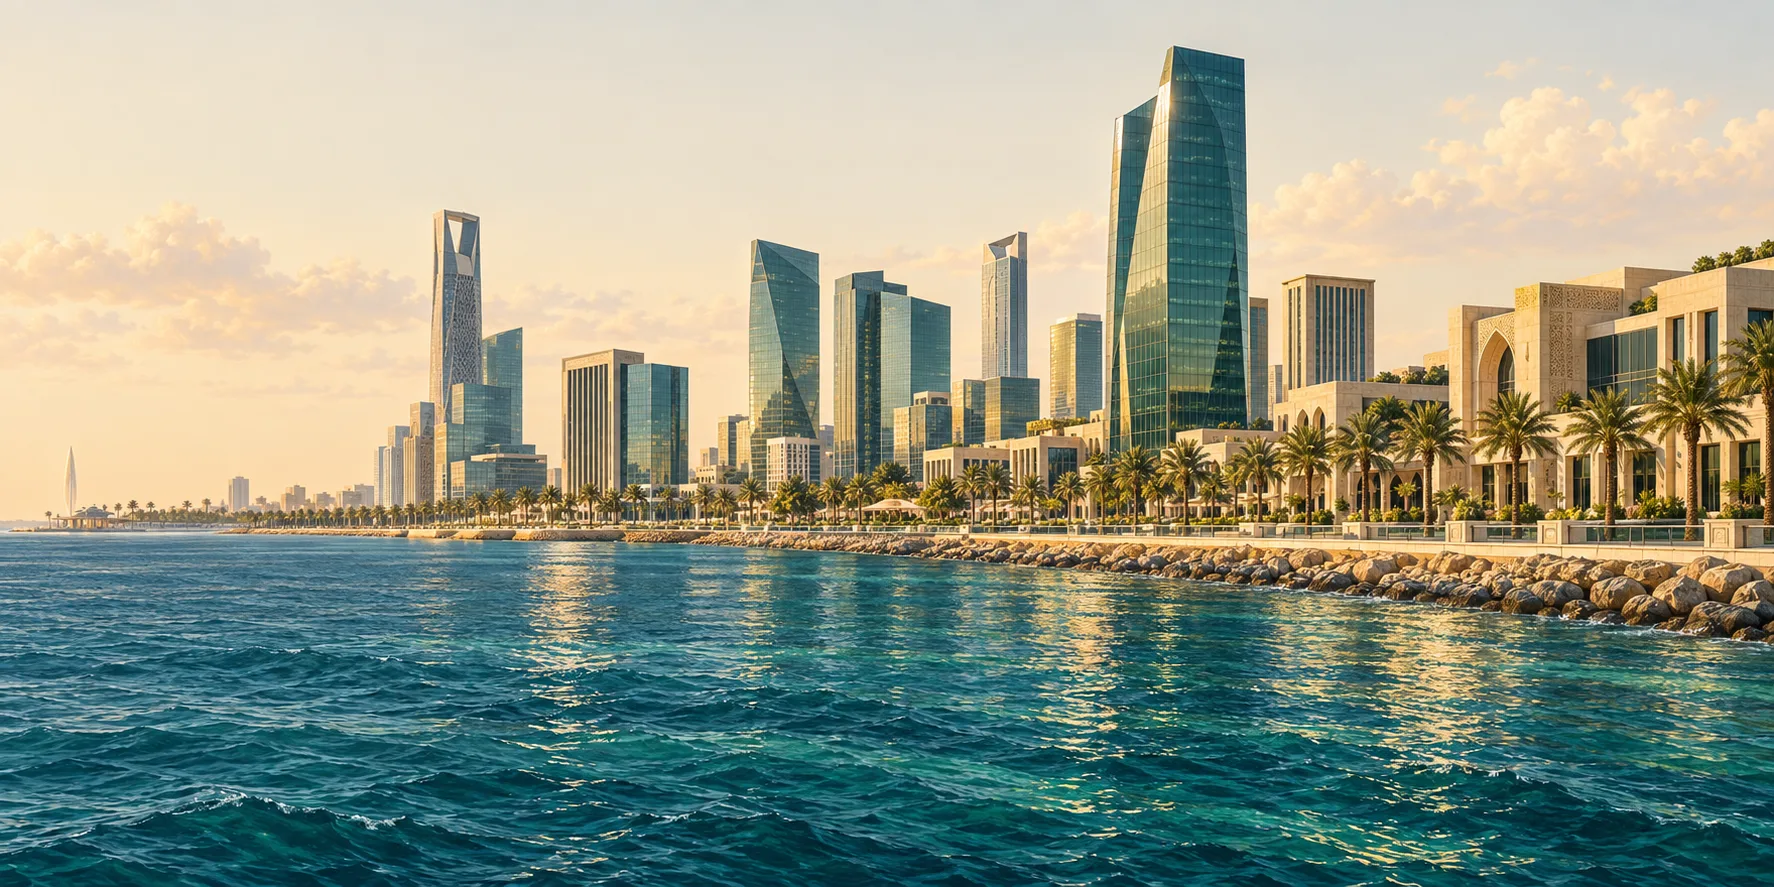
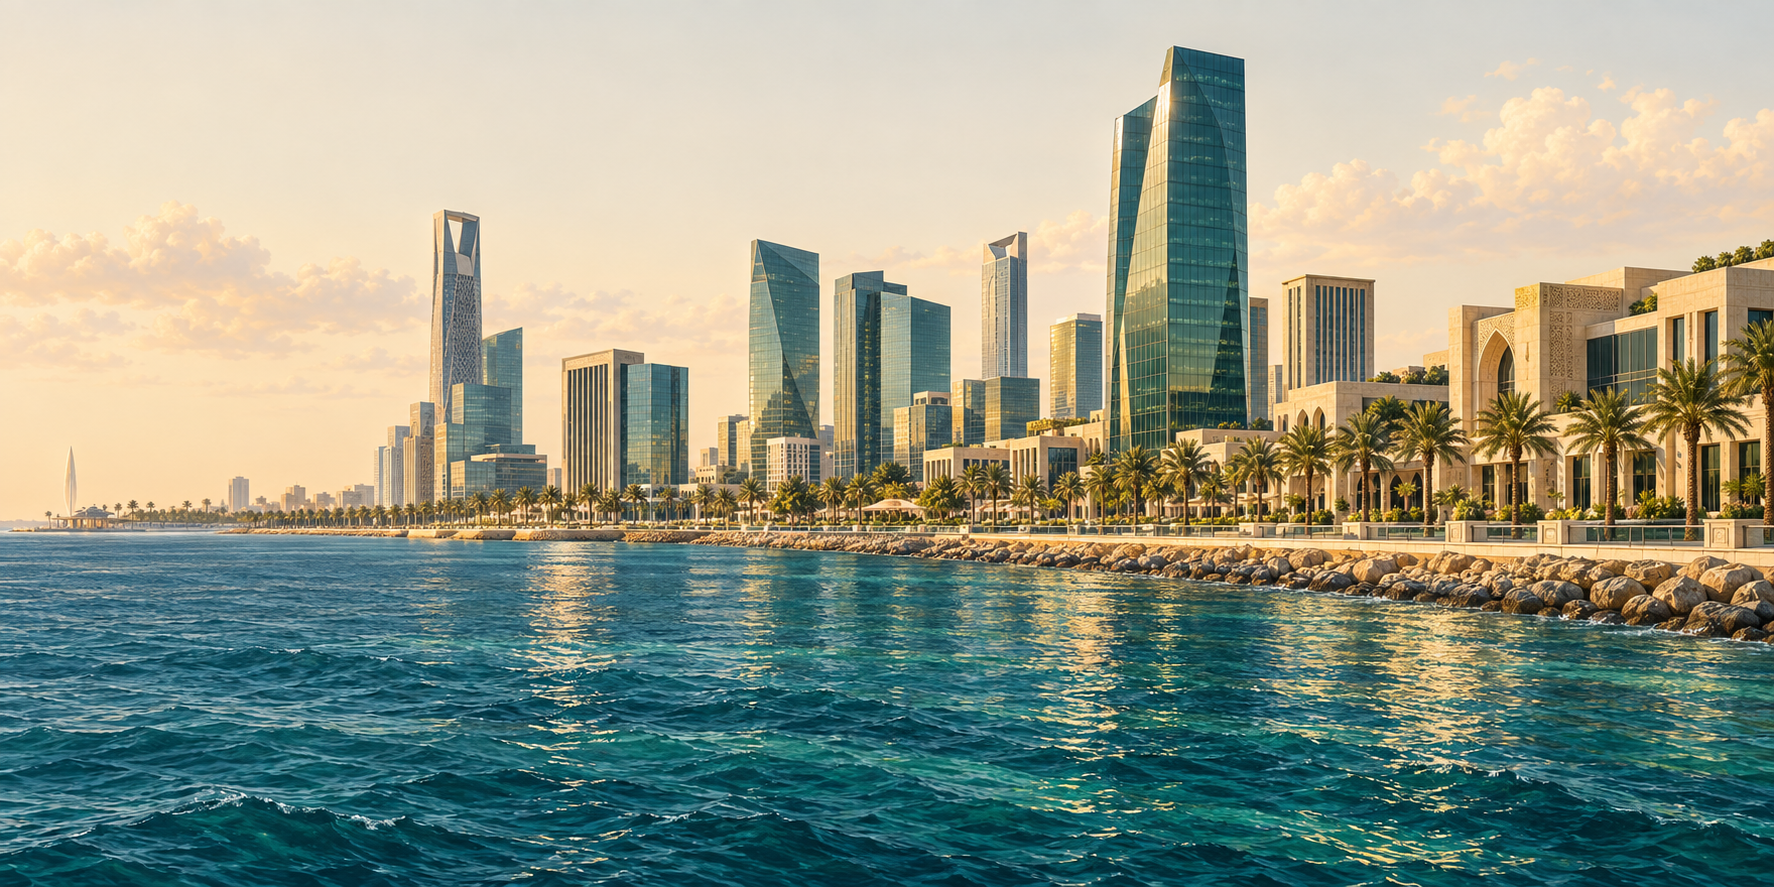
Remove image captions and restore high-fidelity artwork

diff --git a/components/SaudiCityImage.tsx b/components/SaudiCityImage.tsx
@@ -2,11 +2,9 @@ import Image from 'next/image';
 import type { Locale } from '@/i18n/routing';
 export default function SaudiCityImage({ locale, compact = false, hero = false, coastal = false }: { locale: Locale; compact?: boolean; hero?: boolean; coastal?: boolean }) {
   const ar = locale === 'ar';
-  const caption = coastal ? (ar ? 'رسم مستوحى من الواجهة البحرية في جدة' : 'Inspired by Jeddah’s waterfront') : (ar ? 'رسم مستوحى من الحي المالي في الرياض' : 'Inspired by Riyadh’s financial district');
   return <figure className={hero ? 'overflow-hidden rounded-[1.5rem] border border-[var(--rule)] bg-[var(--paper)] shadow-[var(--shadow-premium)]' : 'mt-8 overflow-hidden rounded-2xl border border-[var(--rule)] bg-[var(--paper)]'}>
     <div className={hero ? 'relative aspect-[3/2] lg:aspect-[6/5]' : compact ? 'relative aspect-[3/1] min-h-36' : 'relative aspect-[2/1]'}>
-      <Image src={coastal ? '/images/jeddah-waterfront.webp' : '/images/riyadh-financial-district.webp'} fill sizes={hero ? '(max-width: 1024px) 100vw, 560px' : '(max-width: 768px) 100vw, 720px'} preload={hero} alt={coastal ? (ar ? 'رسم توضيحي لأبراج أعمال ونخيل على ساحل البحر الأحمر' : 'Illustrated business towers and palms on the Red Sea waterfront') : (ar ? 'رسم توضيحي لأبراج زجاجية ونخيل مستوحى من الحي المالي في الرياض' : 'Illustrated glass towers and palms inspired by Riyadh’s financial district')} className="object-cover object-center" />
+      <Image quality={95} src={coastal ? '/images/jeddah-waterfront.webp' : '/images/riyadh-financial-district.webp'} fill sizes={hero ? '(max-width: 1024px) 100vw, 560px' : '(max-width: 768px) 100vw, 720px'} preload={hero} alt={coastal ? (ar ? 'رسم توضيحي لأبراج أعمال ونخيل على ساحل البحر الأحمر' : 'Illustrated business towers and palms on the Red Sea waterfront') : (ar ? 'رسم توضيحي لأبراج زجاجية ونخيل مستوحى من الحي المالي في الرياض' : 'Illustrated glass towers and palms inspired by Riyadh’s financial district')} className="object-cover object-center" />
     </div>
-    <figcaption className="flex flex-wrap justify-between gap-x-3 gap-y-1 px-4 py-3 text-xs leading-relaxed text-[var(--ink-3)]"><span>{caption}</span><span>{ar ? 'رسم مولّد بالذكاء الاصطناعي' : 'AI-generated illustration'}</span></figcaption>
   </figure>;
 }

diff --git a/components/articles/ArticleImage.tsx b/components/articles/ArticleImage.tsx
@@ -7,7 +7,6 @@ export default function ArticleImage({ slug, locale }: { slug: string; locale: L
   const image = ARTICLE_IMAGES[key];
   const ar = locale === 'ar';
   return <figure className="mt-8 overflow-hidden rounded-2xl border border-[var(--rule)] bg-[var(--paper)]">
-    <div className="relative aspect-[2/1] sm:aspect-[5/2]"><Image src={image.src} fill sizes="(max-width: 768px) 100vw, 720px" alt={ar ? image.altAr : image.altEn} className="object-cover object-center" /></div>
-    <figcaption className="flex flex-wrap justify-between gap-2 px-4 py-3 text-xs leading-relaxed text-[var(--ink-3)]"><span>{ar ? image.ar : image.en}</span><span>{ar ? 'رسم توضيحي مولّد بالذكاء الاصطناعي' : 'AI-generated editorial illustration'}</span></figcaption>
+    <div className="relative aspect-[2/1] sm:aspect-[5/2]"><Image quality={95} src={image.src} fill sizes="(max-width: 768px) 100vw, 720px" alt={ar ? image.altAr : image.altEn} className="object-cover object-center" /></div>
   </figure>;
 }

diff --git a/next.config.ts b/next.config.ts
@@ -4,6 +4,7 @@ import createNextIntlPlugin from "next-intl/plugin";
 const withNextIntl = createNextIntlPlugin("./i18n/request.ts");
 
 const nextConfig: NextConfig = {
+  images: { qualities: [75, 95] },
   // Next's dev server blocks cross-origin requests to its internal asset/HMR
   // endpoints by default (since 14.1) — without this, loading the dev server
   // from a LAN IP (e.g. testing on a phone) serves the initial HTML fine but

diff --git a/README.md b/README.md
@@ -189,4 +189,4 @@ Guides and blog posts share server-rendered contents links, approximate reading 
 
 Optional frontmatter: `summary` (a list of concise takeaways), `reviewer` and `reviewedAt` (set together only after a real review). Without takeaways, the existing description is used. No review date or reviewer is inferred. Sources are existing cited links, not a claim that every article has been verified.
 
-The homepage skyline and topic-specific article assets are AI-generated editorial illustrations, labelled in both languages and served locally through Next Image. See `docs/image-assets.md` for provenance.
+The homepage skyline and topic-specific article assets are AI-generated editorial illustrations, served locally through Next Image at quality 95, using lossless source assets. See `docs/image-assets.md` for provenance.

diff --git a/docs/ENHANCEMENTS.md b/docs/ENHANCEMENTS.md
@@ -9,7 +9,7 @@ Updated 15 September 2026. This tracks the site audit and subsequent requested w
 - Navigation, Arabic search and accessibility improvements.
 - Article overview, approximate reading time, linked contents generated from rendered headings, topic-related guides and calculator shortcuts.
 - Author information and correction links; optional real reviewer/review-date fields. Existing cited links collected as references.
-- Bilingual homepage with prominent Riyadh illustration; article imagery selected by topic, optimized locally and labelled as illustrations.
+- Bilingual homepage with prominent Riyadh illustration; article imagery selected by topic, stored losslessly and served at quality 95 without visible captions.
 
 ## Pending
 

diff --git a/docs/image-assets.md b/docs/image-assets.md
@@ -1,6 +1,6 @@
 # SaudiMoney editorial images
 
-Generated with the built-in imagegen tool on 15 September 2026. These are artistic interpretations, not location photographs; captions disclose this in English and Arabic. Local WebP assets are optimized by Next Image, with reserved dimensions and hero preloading.
+Generated with the built-in imagegen tool on 15 September 2026. These are artistic interpretations, not location photographs; visible captions were removed at the owner?s request. Provenance is retained here. Local WebP assets are optimized by Next Image, with reserved dimensions and hero preloading.
 
 ## Riyadh
 
